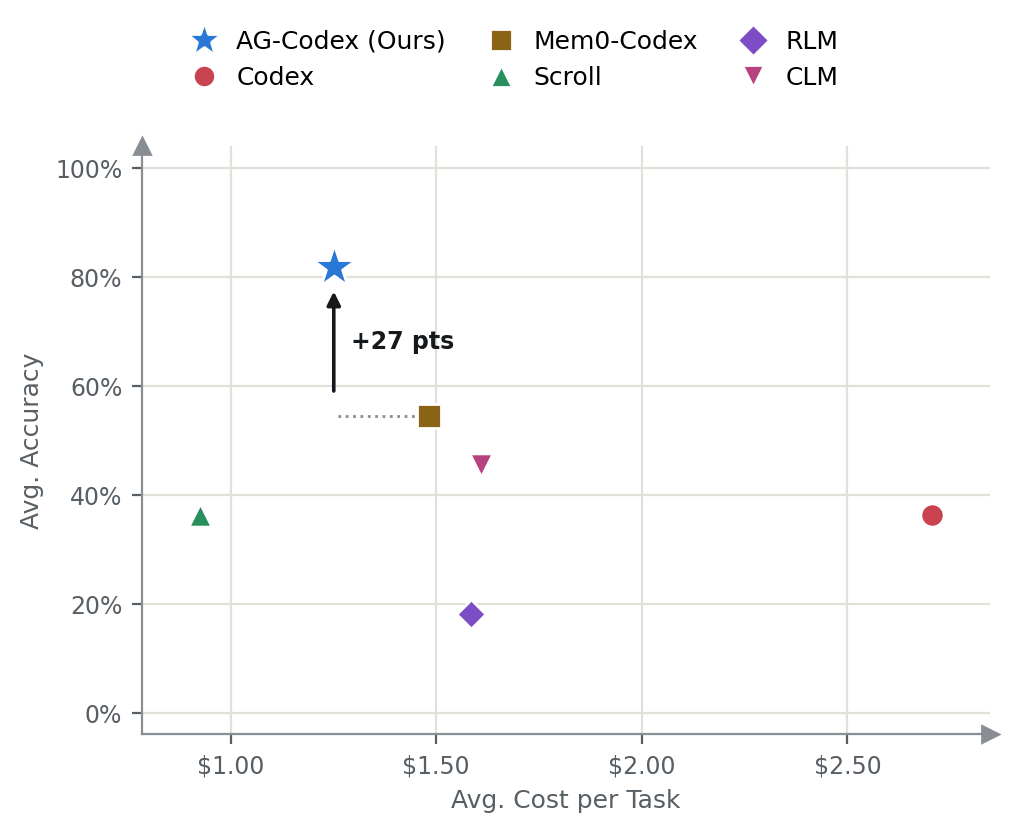
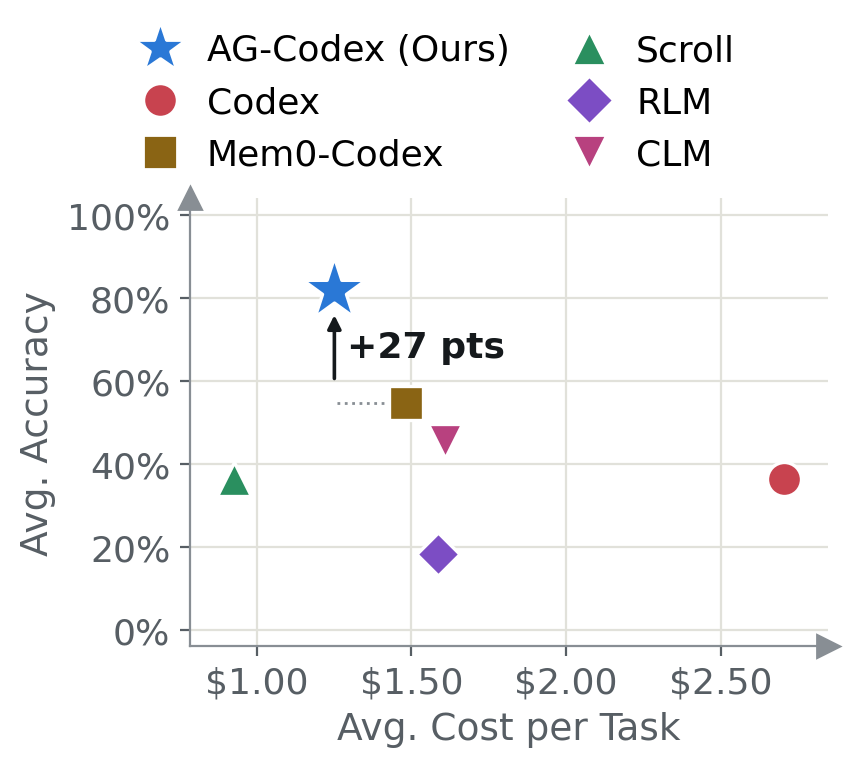
Regenerate coding/data/session plots with larger fonts and markers

diff --git a/blog.html b/blog.html
@@ -49,9 +49,9 @@
   <p>AG-Codex outperforms the baselines on all three tasks. On coding, RLMs perform poorly, as they often do not look for the specification in their history. Scroll performs better than RLM, as it maintains a summary of past actions that allows the agent to obtain the past specification. Codex frequently loses the specification during compaction, which is sometimes recovered by Mem0.</p>
   <p>On data analysis, AG-Codex improves accuracy by 36 points over the best baseline, and all tool-based baselines perform significantly worse than on coding. The main challenge here is that agents often do not know that past information is needed and can be relevant, and often answer the question without looking at the history at all. Mem0, which automatically retrieves relevant information and includes it in context, performs better, as it sometimes correctly retrieves the needed information; failures occur when it either does not retrieve the relevant information or the relevant information is not included in its memories at all. On session analysis, the baselines perform worse on questions whose answers are harder to retrieve using keyword search or embeddings.</p>
   <div class="figs figs3">
-    <figure><img src="figures/coding.png" alt="Accuracy versus cost per task on the coding benchmark for AG-Codex, Codex, Mem0-Codex, Scroll, RLM and CLM."><figcaption>Coding</figcaption></figure>
-    <figure><img src="figures/data_analysis.png" alt="Accuracy versus cost per task on the data analysis benchmark."><figcaption>Data analysis</figcaption></figure>
-    <figure><img src="figures/session_analysis.png" alt="F1-score versus cost per task on the session analysis benchmark."><figcaption>Session analysis (F1-score)</figcaption></figure>
+    <figure><img src="figures/coding.png?v=2" alt="Accuracy versus cost per task on the coding benchmark for AG-Codex, Codex, Mem0-Codex, Scroll, RLM and CLM."><figcaption>Coding</figcaption></figure>
+    <figure><img src="figures/data_analysis.png?v=2" alt="Accuracy versus cost per task on the data analysis benchmark."><figcaption>Data analysis</figcaption></figure>
+    <figure><img src="figures/session_analysis.png?v=2" alt="F1-score versus cost per task on the session analysis benchmark."><figcaption>Session analysis (F1-score)</figcaption></figure>
   </div>
   <p class="rowcap">Single-agent results: accuracy (F1-score for session analysis) vs. cost per task.</p>
 
